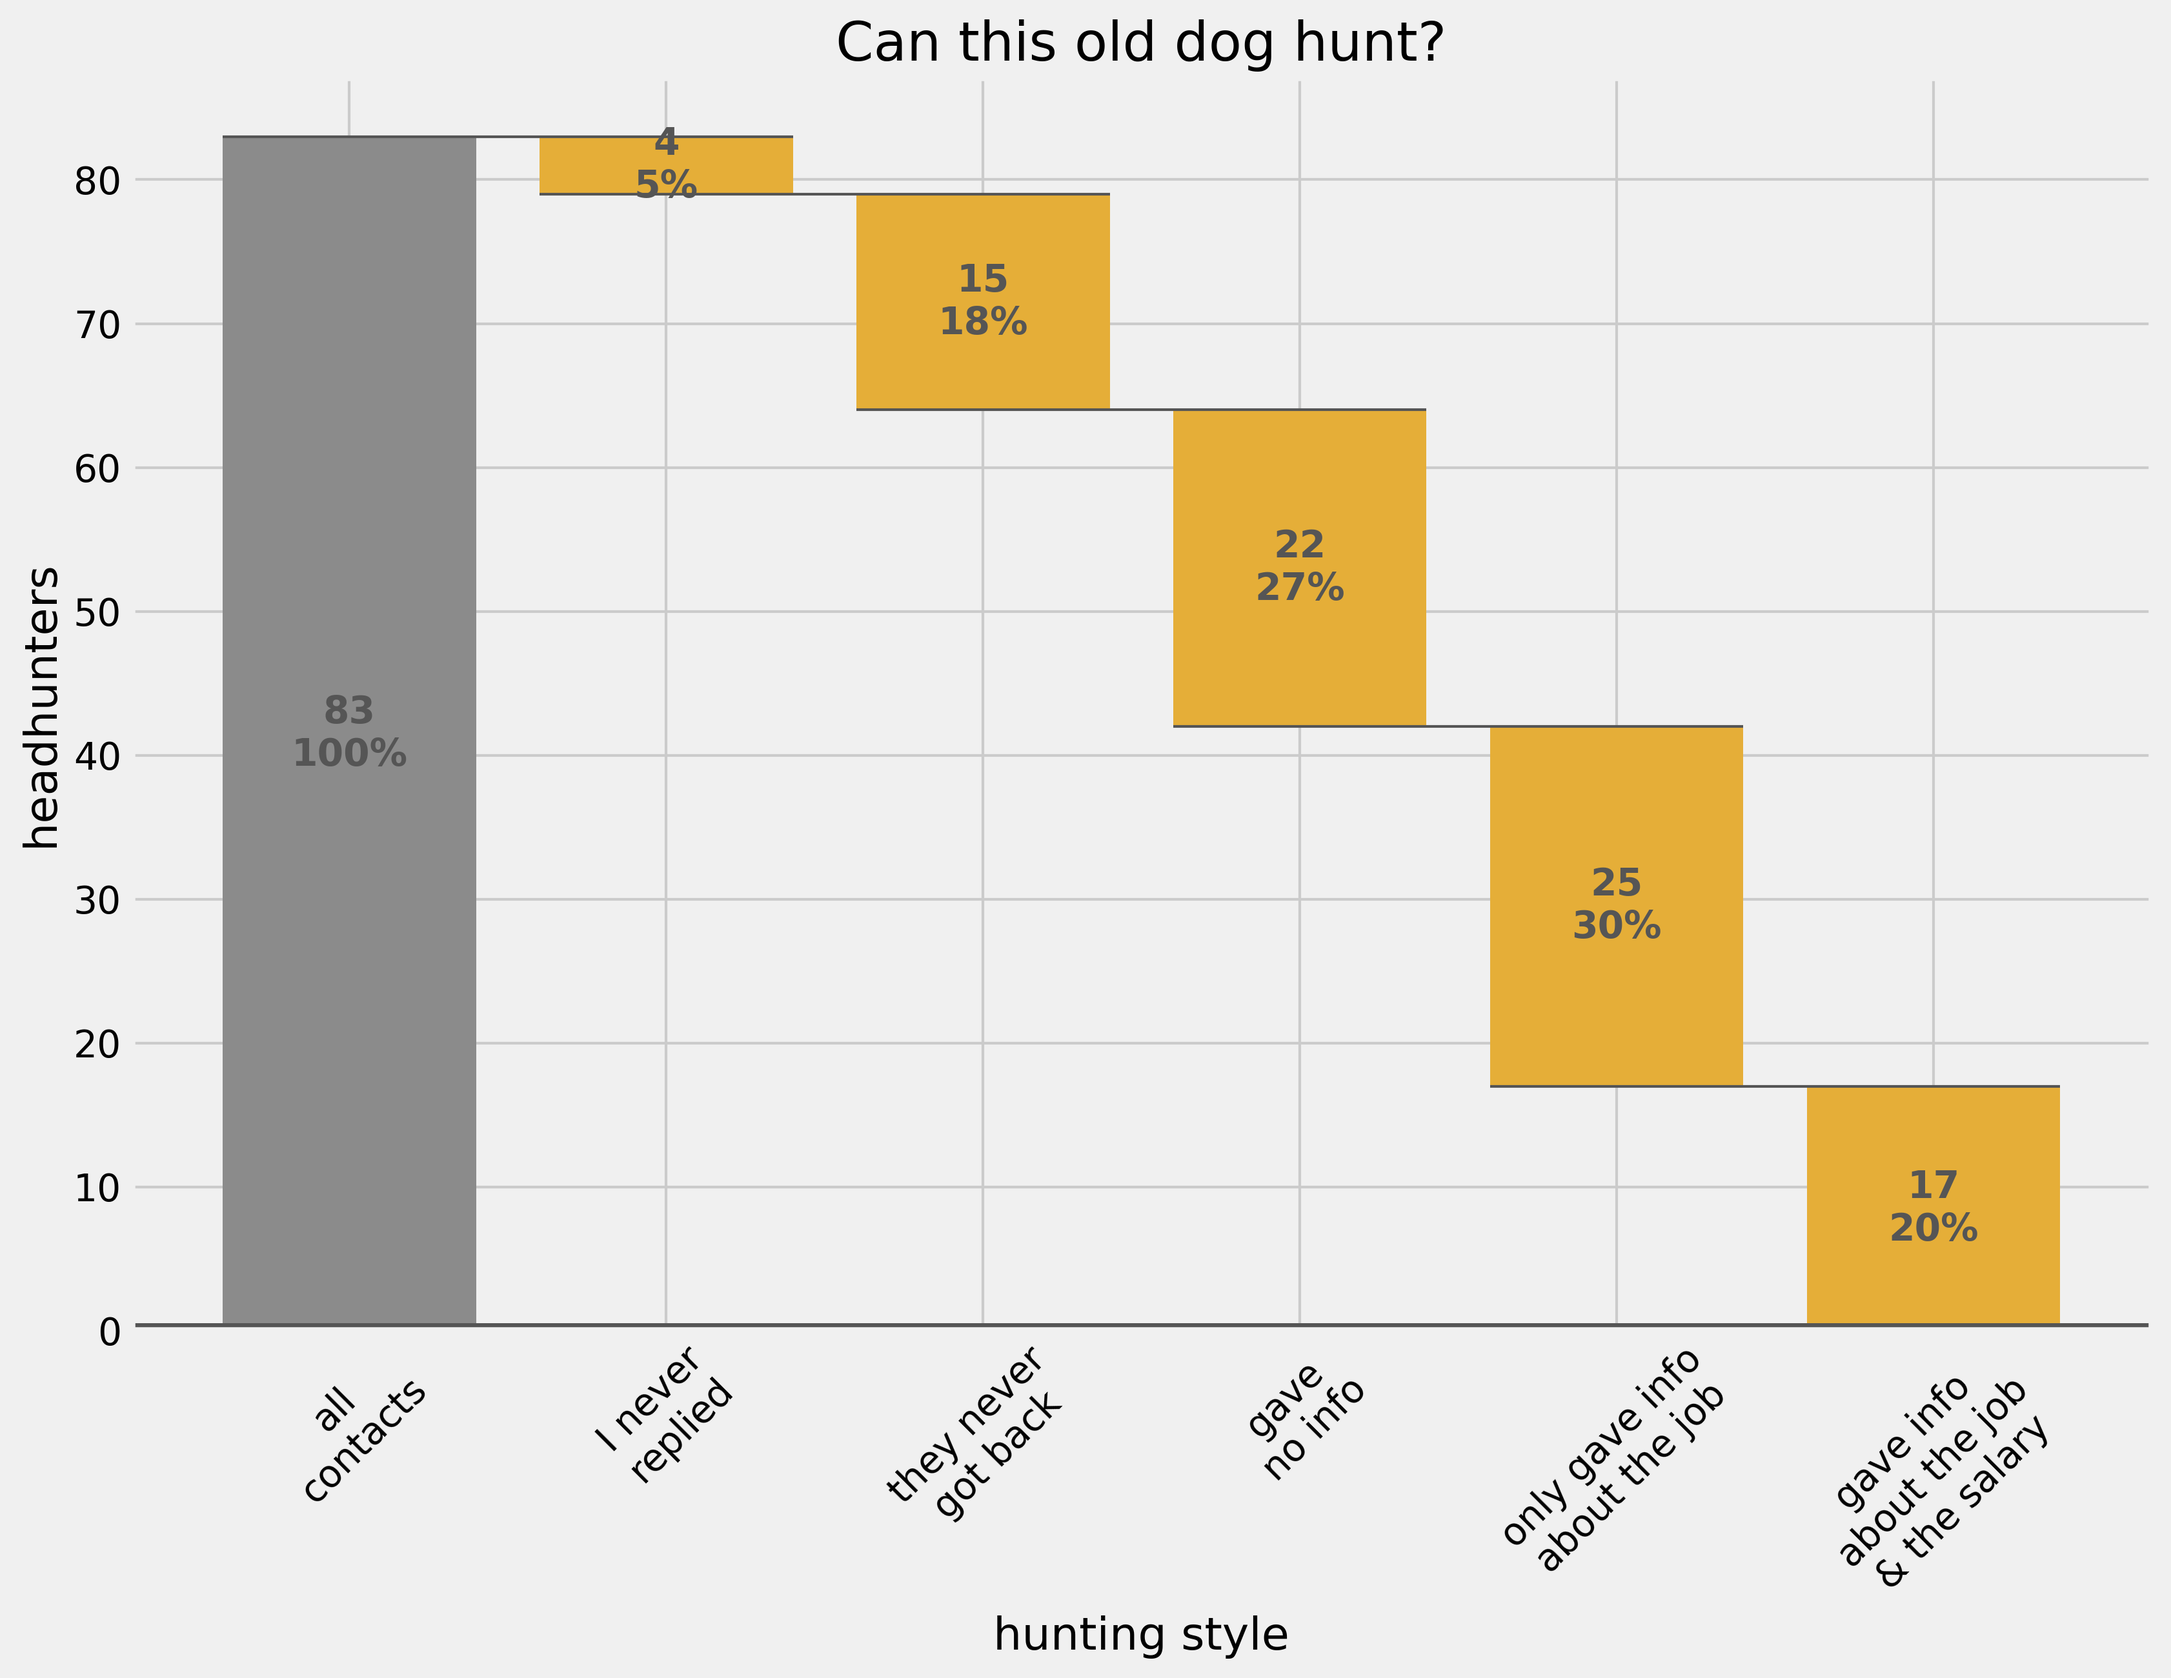
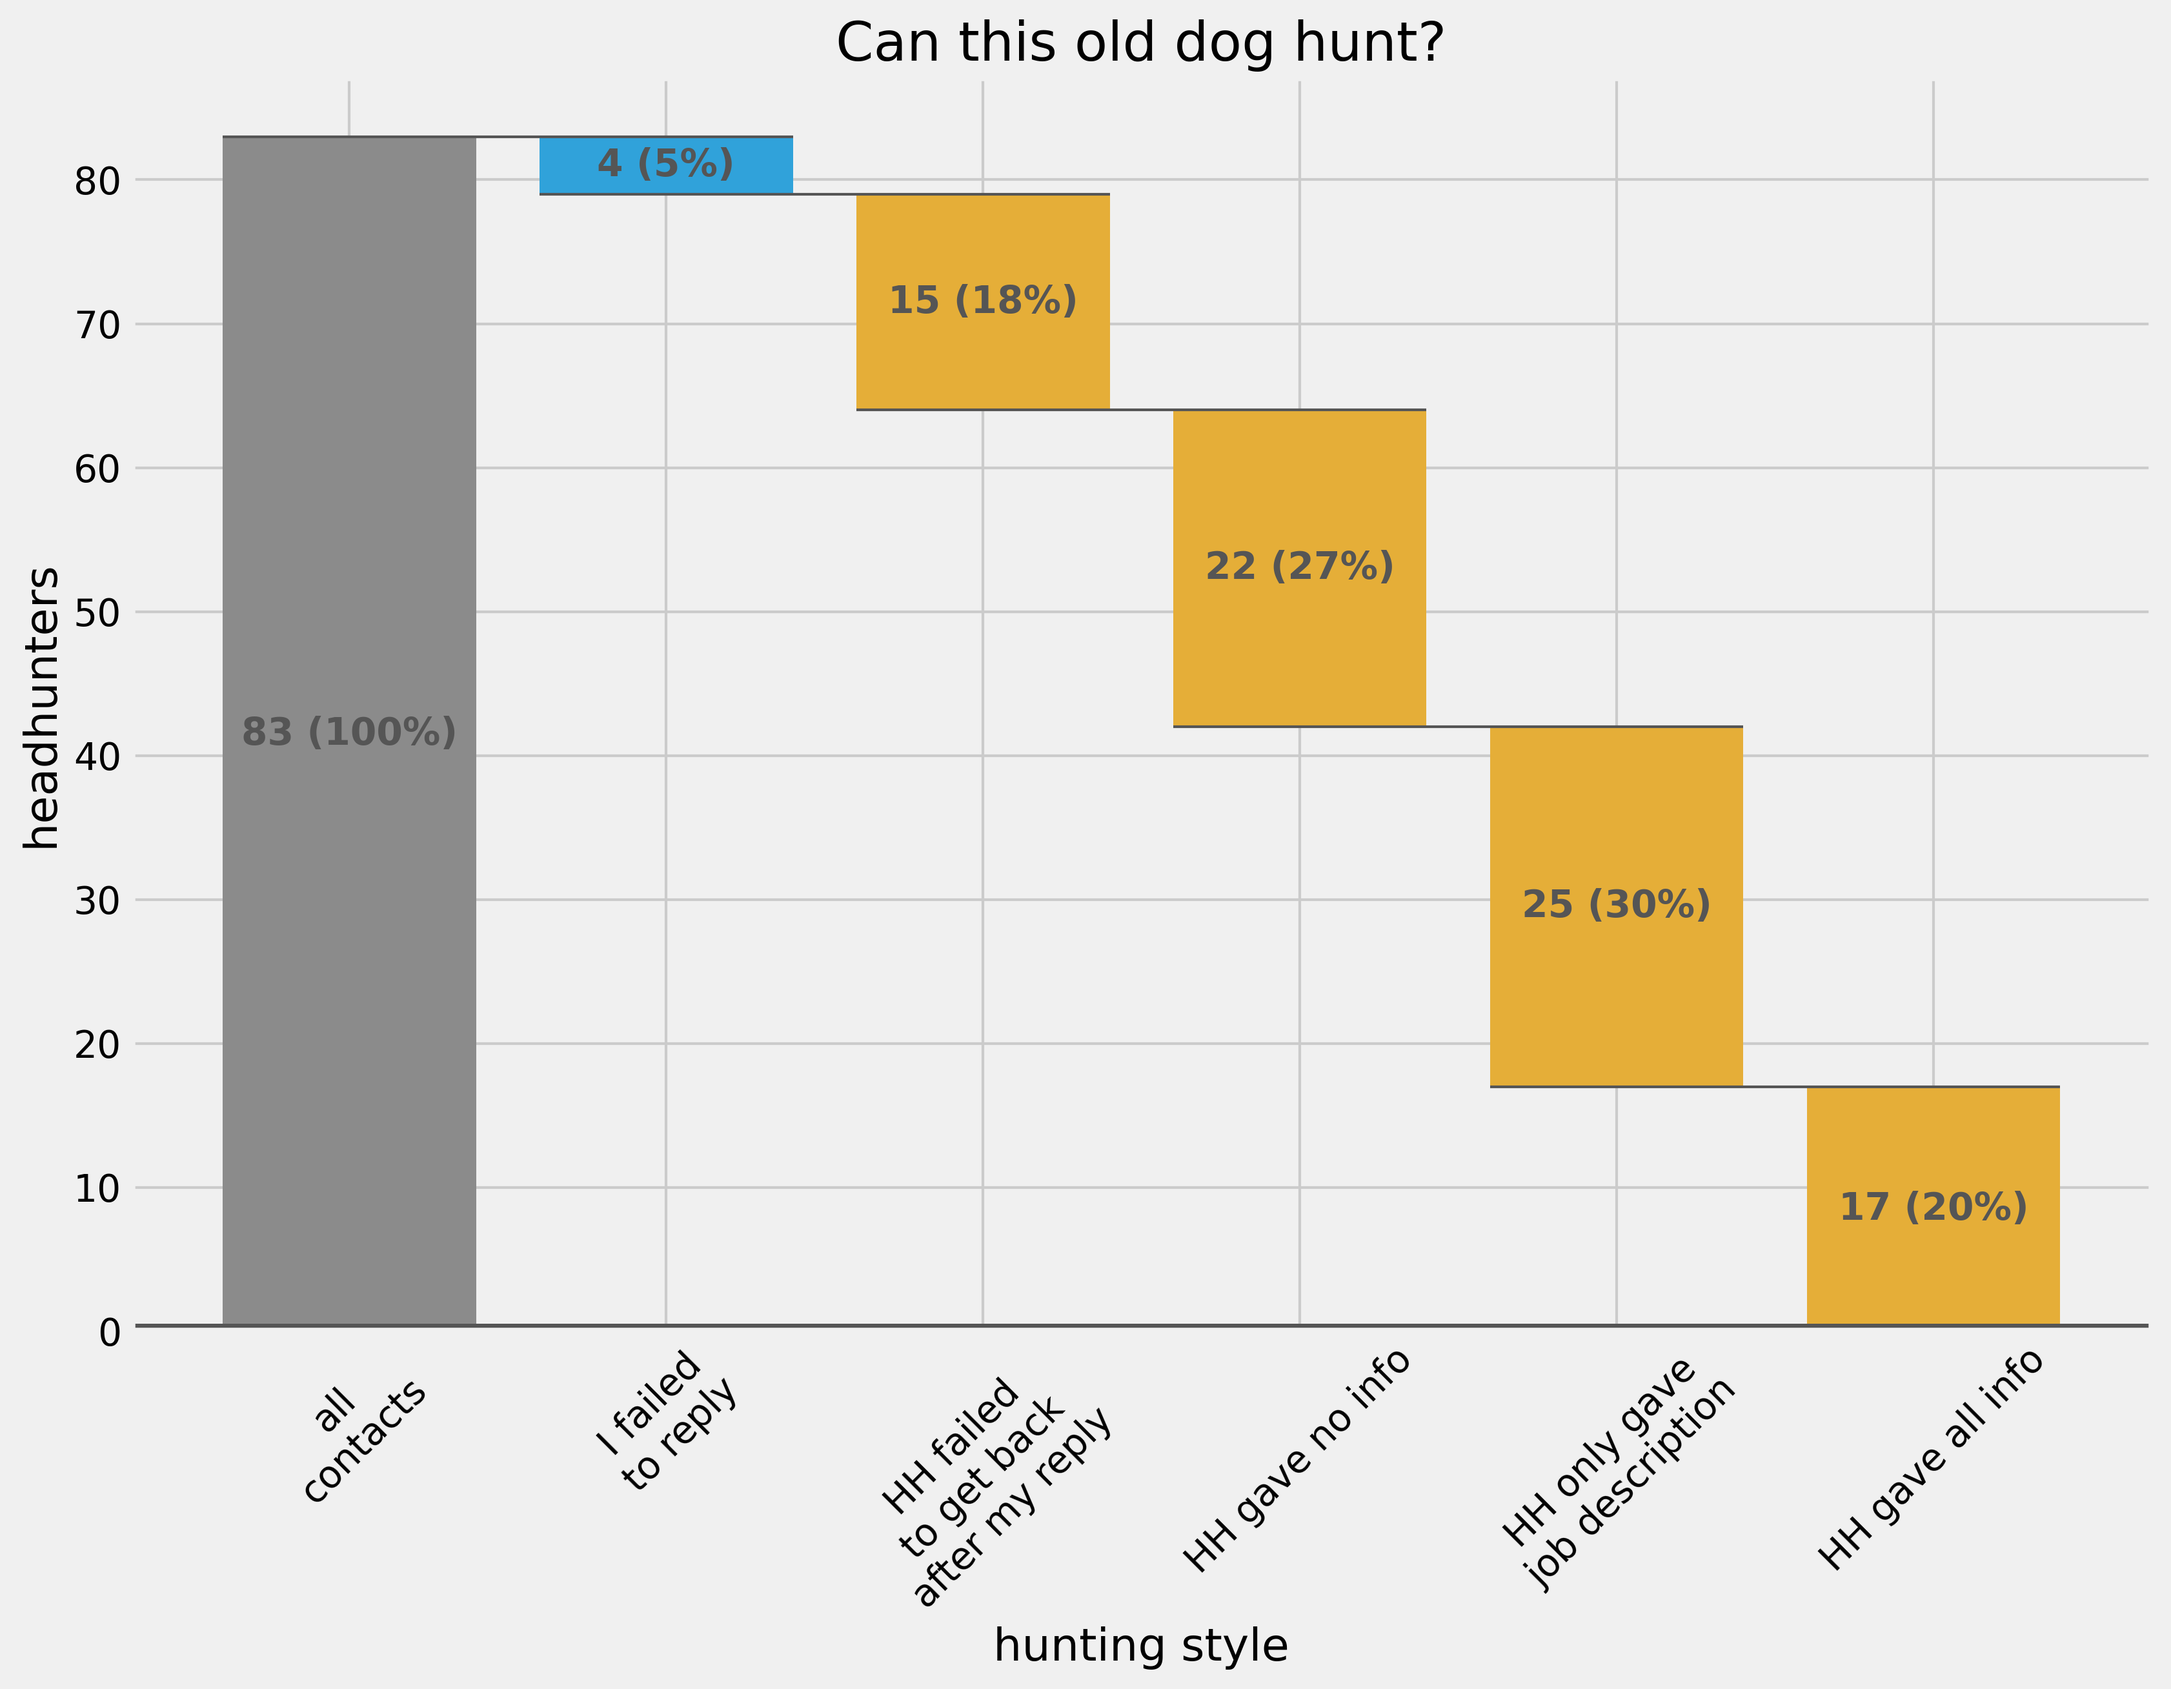
Update headhunters post.

diff --git a/_posts/2020-12-14-best-hunter.md b/_posts/2020-12-14-best-hunter.md
@@ -1,5 +1,5 @@
 ---
-title: "'to hunt with the hounds one has to run with the hair' or what makes a good headhunter"
+title: "'hunting with the hounds running with the hair' or what makes a good headhunter"
 date: 2020-12-14T00:00:00-00:00
 categories:
   - blog
@@ -14,7 +14,7 @@ tags:
 
 Looking for a new job is a full-time, unpaid, often exhausting, and sometimes humiliating job of its own. Occasionally, one may be in some luck to be hunted by a skillful headhunter, who does not treat an applicant as game, but instead turns the process into a rewarding game, no matter the outcome. In the last two years I have been in touch with over 83 headhunters (83 are only the ones I managed to keep the records of).
 
-Overtime, certain criteria on which to judge whether the headhunter is not too old to hunt precipitate out. Good headhunters just make the game crystal-clear to you and provied the following information up front:
+Overtime, certain criteria on which to judge whether the headhunter is not too old to hunt precipitate out. Good headhunters just make the game crystal-clear to you and provided the following information up front:
 1. the salary & the job(s) including:
 * responsibilities & requirements
 * product
@@ -26,8 +26,9 @@ Overtime, certain criteria on which to judge whether the headhunter is not too o
 
 3. clear detailed feedback on every part of the interview (whether successful or not).
 
-Regrettably, I failed to respond when approached by 4 headhunters (5%). At the same time there were 15 headhunters (18%) who never came back to me after my responding to their original advances and sending them my CV — those were duly deleted from my network. 22 (27%) headhunters failed to provide any information on the job. 25 (30%) only provided the job description and requirements; something that can be found through on-line job portals — not quite clear what these people really contribute to the process. 1 person was particularly hideous and was trying to get from me personal contact details of my colleague — which is a no go.
-Only 17 (20%) provided detailed information about both the job and the salary.
+Particularly weird specimens included:
+* one who tried to get from me personal contact details of my colleague — this is just a no go,
+* another who wanted me to fill in some endless forms on the website of the prospective employer — honestly if one wants to fill in the forms on their own they are already doing it.
 
 <figure class="align-center">
   <img src="{{ site.url }}{{ site.baseurl }}/assets/images/headhunters_statistics.png" alt="">
@@ -44,8 +45,10 @@ Brilliant headhunters add a personal touch to the game:
 * when you move to another country
 * when you want to change the company
 
-Only ... out of 83 (less than 5%) turned out to fall into this category.
+Only 4 out of 83 (less than 5%) turned out to fall into this category. Here are the details of those, worth adding to your LinkedIn network.
 
-|hunter|hunting ground|
-|:--|:--|
-|[Mirela Tocco](https://www.linkedin.com/in/mirela-tocco/)|IT & Data Science; product & marketing|
+|hunter|hunter's game|hunting ground|
+|:--|:--|:--|
+|[Mirela Tocco](https://www.linkedin.com/in/mirela-tocco/)|IT & Data Science; product & marketing|worldwide, but mostly Europe|
+|[Rex Rusling](https://www.linkedin.com/in/rexrusling/)|software engineers, data professionals|worldwide, but mostly Europe|
+|[Andrey Sydorenko](https://www.linkedin.com/in/andreyrec/)|data professionals|worldwide, but mostly Europe|
